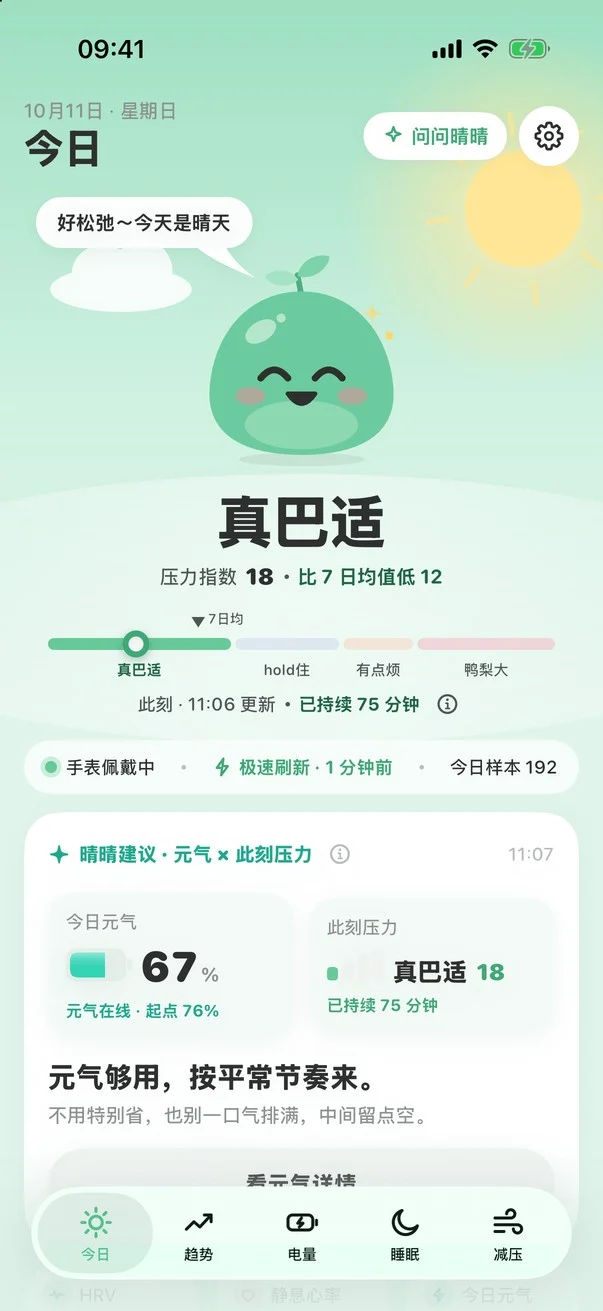
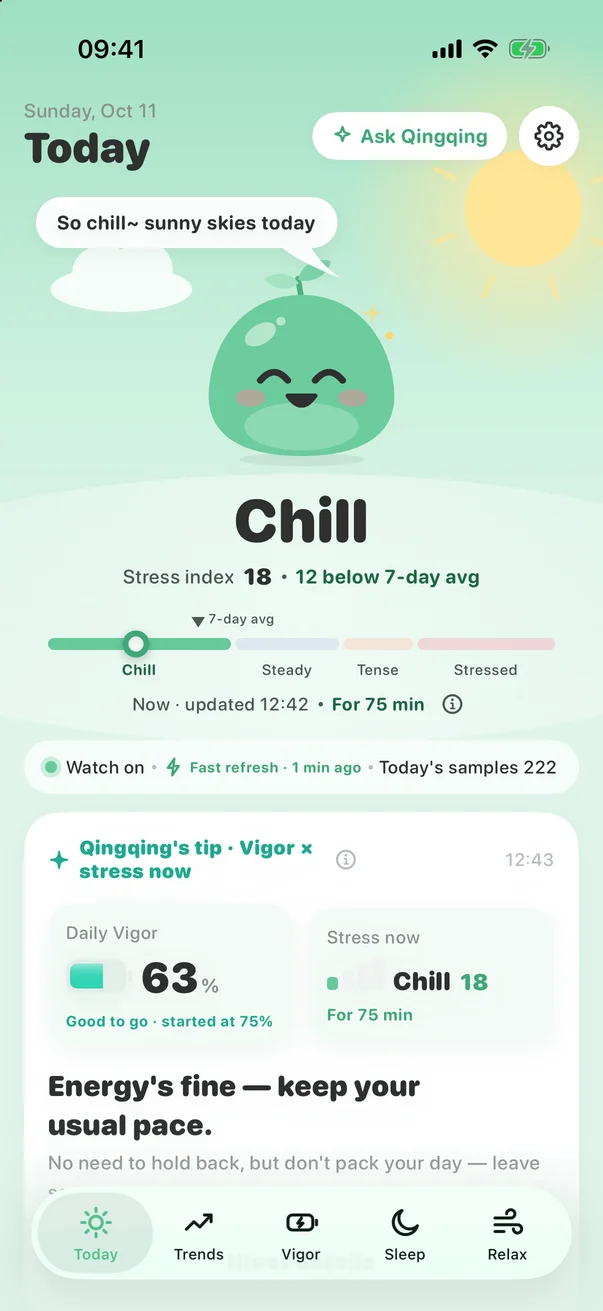
English hero: English app screenshots (Vigor, Today, watch w/o demo badge); drop Chinese-UI note

diff --git a/en/index.html b/en/index.html
@@ -12,11 +12,11 @@
 <div class="cta"><a class="appstore" href="https://apps.apple.com/"><img src="../assets/badge-en-us.svg?v=a26fc5b383" alt="Download on the App Store" height="48"></a><span class="free">Free to start · 7-day free trial on subscriptions</span></div>
 <p class="req">Requires iPhone with iOS 18 or later and a paired Apple Watch (watchOS 11 or later).</p></div>
 <div class="hvis"><div class="halo"></div>
-<div class="dev ph1"><img src="../assets/vigor.webp?v=dfa2228dbb" alt="" width="603" height="1311"></div>
-<div class="dev ph2"><img src="../assets/today-en.webp?v=7626ac4dff" alt="Clairsy Today" width="603" height="1311"></div>
-<div class="dev wt"><img src="../assets/watch.webp?v=c1f9545e7a" alt="Clairsy on Apple Watch" width="416" height="496"></div>
+<div class="dev ph1"><img src="../assets/vigor-en.webp?v=d0a4bb5afe" alt="" width="603" height="1311"></div>
+<div class="dev ph2"><img src="../assets/today-en.webp?v=27ea3ea22e" alt="Clairsy Today" width="603" height="1311"></div>
+<div class="dev wt"><img src="../assets/watch-en.webp?v=ad338b0501" alt="Clairsy on Apple Watch" width="416" height="496"></div>
 <img class="mas" src="../assets/qingqing.svg?v=ae6b4a3a9c" alt="" width="135" height="135"></div>
-<p class="shotnote">Screenshots from the current app (demo data). The app interface is in Simplified Chinese.</p></div>
+<p class="shotnote">Screenshots from the current app (demo data).</p></div>
 <div class="wrap"><div class="trust"><div><span class="ib"><img class="ic" src="../assets/icons/on-device.svg?v=f5730aa8c3" alt="" aria-hidden="true"></span><b>On-device only</b><small>No servers — nothing is uploaded</small></div><div><span class="ib"><img class="ic" src="../assets/icons/no-account.svg?v=5d09475955" alt="" aria-hidden="true"></span><b>No account</b><small>No sign-up, no login</small></div><div><span class="ib"><img class="ic" src="../assets/icons/no-tracking.svg?v=b4618fe82b" alt="" aria-hidden="true"></span><b>No tracking</b><small>No ads, no analytics SDKs</small></div><div><span class="ib"><img class="ic" src="../assets/icons/read-only-health.svg?v=f1765cbfee" alt="" aria-hidden="true"></span><b>Read-only Health</b><small>Clairsy never writes to Health</small></div></div></div></section>
 <section id="features" class="wrap sec"><p class="kick">FEATURES</p><h2>Built around your own baseline</h2><div class="cards"><div class="card c0"><div class="chead"><span class="ib lg"><img class="ic" src="../assets/icons/stress-weather.svg?v=54e060e171" alt="" aria-hidden="true"></span><span class="num">01</span></div><h3>Stress, in plain words</h3><p>HRV and resting heart rate are compared with your personal baseline and turned into four easy levels — Chill, Steady, Tense, Stressed — with a stress index and 7-day average. Quick mood check-ins calibrate it to how you actually feel.</p></div><div class="card c1"><div class="chead"><span class="ib lg"><img class="ic" src="../assets/icons/vigor-sleep.svg?v=1f0b2474df" alt="" aria-hidden="true"></span><span class="num">02</span></div><h3>Daily Vigor & sleep</h3><p>Each morning Clairsy sets your Daily Vigor from recovery, sleep and training load, then shows how stress drains it through the day. Sleep duration, score, sleep debt and stages at a glance.</p></div><div class="card c2"><div class="chead"><span class="ib lg"><img class="ic" src="../assets/icons/breathe.svg?v=bc06053a13" alt="" aria-hidden="true"></span><span class="num">03</span></div><h3>Breathe it down</h3><p>Resonance breathing (4 in, 6 out), cyclic sighing, 4-7-8 and box breathing, with Qingqing breathing along — on iPhone and Apple Watch. Before-and-after readings show what changed.</p></div><div class="card c3"><div class="chead"><span class="ib lg"><img class="ic" src="../assets/icons/watch.svg?v=00e9944bad" alt="" aria-hidden="true"></span><span class="num">04</span></div><h3>On your wrist</h3><p>A watch app with your current level and a one-tap “Measure now”, watch-face complications, Home Screen widgets, and optional local stress alerts.</p></div></div>
 <div class="member"><div><span class="mpill"><img class="ic xs" src="../assets/icons/membership.svg?v=d99b7184ce" alt="" aria-hidden="true">MEMBERSHIP</span><h3>Free to start, membership when you want more</h3></div><p>Free: the Today page — stress level, HRV and Daily Vigor % — plus sleep duration, score, sleep debt and stages, breathing exercises, Home Screen widgets, free complications and one basic watch face. Clairsy Membership unlocks trends, Daily Vigor details, in-depth sleep analysis, custom stress-alert frequency, and all complications and watch faces. Choose a monthly or yearly subscription (7-day free trial for eligible Apple IDs) or Lifetime (one-time purchase). All purchases are handled by Apple; prices are shown on the App Store purchase sheet.</p></div></section>

diff --git a/build.py b/build.py
@@ -21,7 +21,7 @@ T = {
   lead="Clairsy reads heart rate variability and heart rate from your Apple Watch, compares them with your own baseline, and tells you how you're doing right now — Chill, Steady, Tense or Stressed. Qingqing changes with you. Everything is calculated on your iPhone and Apple Watch.",
   dl1='Download on the', dl2='App Store', free='Free to start · 7-day free trial on subscriptions',
   req='Requires iPhone with iOS 18 or later and a paired Apple Watch (watchOS 11 or later).',
-  shotnote='Screenshots from the current app (demo data). The app interface is in Simplified Chinese.',
+  shotnote='Screenshots from the current app (demo data).',
   trust=[('On-device only','No servers — nothing is uploaded'),('No account','No sign-up, no login'),('No tracking','No ads, no analytics SDKs'),('Read-only Health','Clairsy never writes to Health')],
   fk='FEATURES', fh='Built around your own baseline',
   cards=[('Stress, in plain words','HRV and resting heart rate are compared with your personal baseline and turned into four easy levels — Chill, Steady, Tense, Stressed — with a stress index and 7-day average. Quick mood check-ins calibrate it to how you actually feel.'),
@@ -178,9 +178,9 @@ def home(lang):
 <div class="cta"><a class="appstore" href="{C['app_store_url']}"><img src="{{A}}badge-{'zh-cn' if lang=='zh' else 'en-us'}.svg" alt="{t['dl1']} {t['dl2']}" height="48"></a><span class="free">{t['free']}</span></div>
 <p class="req">{t['req']}</p></div>
 <div class="hvis"><div class="halo"></div>
-<div class="dev ph1"><img src="{{A}}vigor.webp" alt="" width="603" height="1311"></div>
+<div class="dev ph1"><img src="{{A}}vigor{'-en' if lang=='en' else ''}.webp" alt="" width="603" height="1311"></div>
 <div class="dev ph2"><img src="{{A}}today-{lang}.webp" alt="Clairsy Today" width="603" height="1311"></div>
-<div class="dev wt"><img src="{{A}}watch.webp" alt="Clairsy on Apple Watch" width="416" height="496"></div>
+<div class="dev wt"><img src="{{A}}watch{'-en' if lang=='en' else ''}.webp" alt="Clairsy on Apple Watch" width="416" height="496"></div>
 <img class="mas" src="{{A}}qingqing.svg" alt="" width="135" height="135"></div>
 <p class="shotnote">{t['shotnote']}</p></div>
 <div class="wrap"><div class="trust">{trust}</div></div></section>
